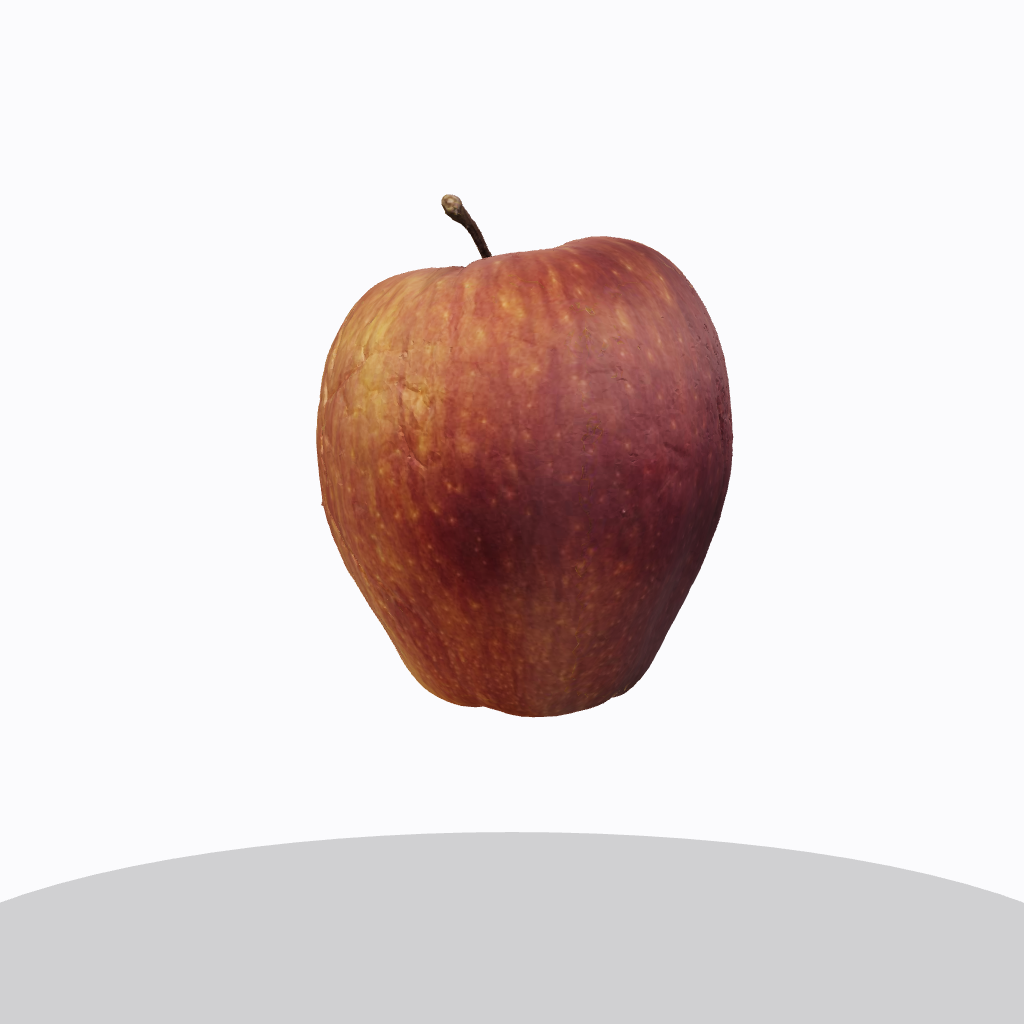
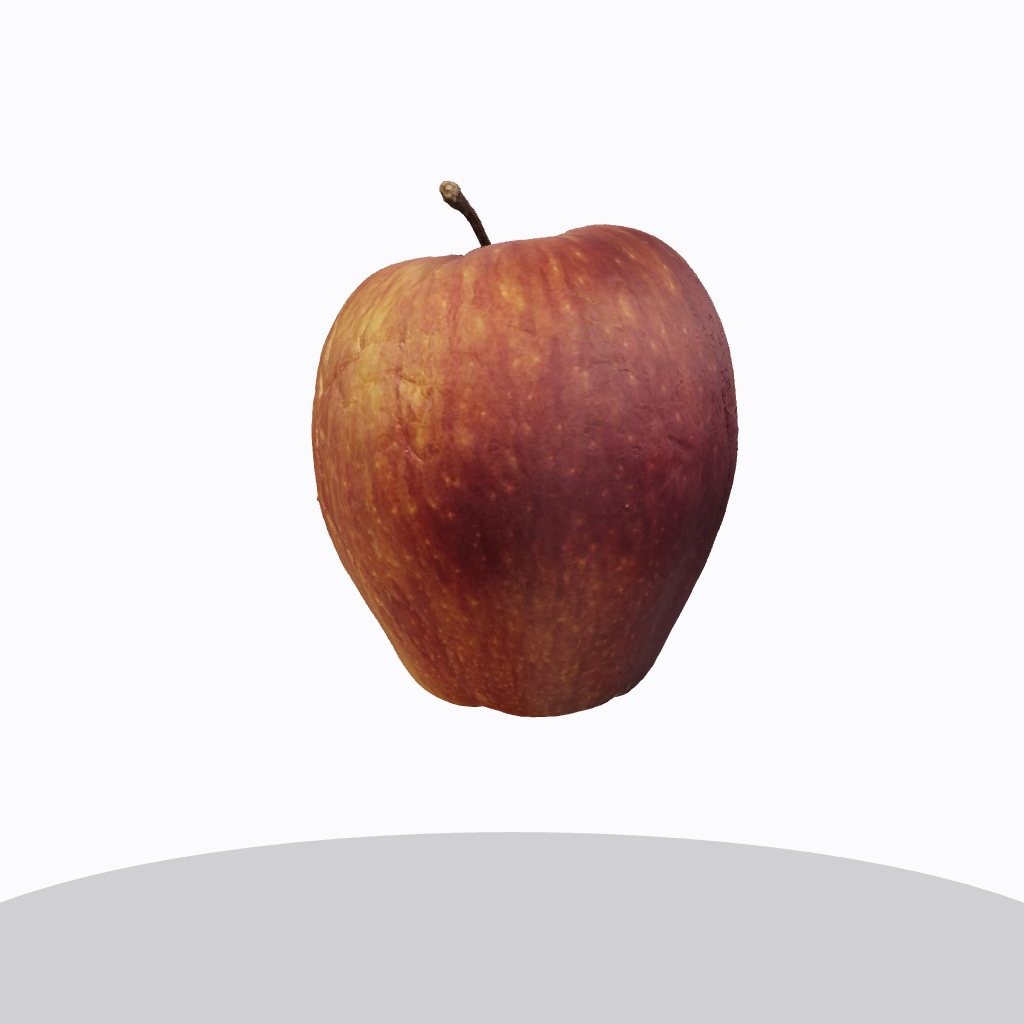
Fix stop-motion size jumps with baked silhouette-height scales.
Max-AABB normalize shrank mid-bite frames ~12–17% because the cavity
inflated width. Bake per-frame uniform scales so projected height matches
frame 0, keep all GLBs mounted under one pose, and re-export stills.

diff --git a/src/components/AppleScene.tsx b/src/components/AppleScene.tsx
@@ -24,14 +24,34 @@ type AppleSceneProps = {
 const FRAME_URL = (n: number) => `/apple/frames/${n}.glb`;
 
 /**
- * Sketchfab bite stages ship with different node scales/pivots. We normalize
- * each frame independently:
- *  1) uniform scale so the longest AABB side == TARGET_MAX_EXTENT
- *  2) XZ-center + shared floor (min Y → -TARGET_MAX_EXTENT/2)
- * Reusing frame-0's fit factor alone left later stages ~20–40% wrong in world space.
- * AABB-sphere fit kept radius equal but let tall cores (8–9) read much larger.
+ * Shared floor after normalize (min Y → FLOOR_Y). Kept as a constant so
+ * ContactShadows stay put while per-frame scales change.
  */
-const TARGET_MAX_EXTENT = 1.16;
+const FLOOR_Y = -0.58;
+
+/**
+ * Eydeet / Sketchfab bite stages ship at wildly different node scales, and the
+ * bite cavity inflates AABB width on mid frames. Fitting to max AABB side made
+ * frames 2/4/5 read ~12–17% smaller in camera space. Fitting to Y alone still
+ * left ~8% projected-height jitter (stem/core outliers + yaw).
+ *
+ * These uniform scales were baked so camera-projected silhouette height
+ * (fov 33, z=3.9, face yaw/pitch below) matches frame 0, then refined against
+ * exported still rasters so frame tops stay within ~1–2px. Re-bake with
+ * scripts/bake-apple-fit-scales.mjs (+ still pass) if the GLBs change.
+ */
+const FRAME_FIT_SCALE = [
+  0.05257256, // 0 whole
+  0.052427, // 1
+  0.04184265, // 2
+  0.04786538, // 3
+  0.03577814, // 4
+  0.04005153, // 5
+  0.04314632, // 6
+  0.05736219, // 7
+  0.03433506, // 8
+  0.03253477, // 9 core
+] as const;
 
 /**
  * Eydeet frames ship with the bite cavity facing away from the default camera.
@@ -90,14 +110,15 @@ function measureWorldBox(root: THREE.Object3D): THREE.Box3 {
 }
 
 /**
- * Uniform scale + stable pose: longest AABB side → TARGET_MAX_EXTENT,
- * XZ centered, bottom on a shared floor so shadows don't bounce.
+ * Uniform scale (baked silhouette height) + XZ center + shared floor.
+ * Pass the stop-motion frame index so the correct FRAME_FIT_SCALE is used.
  */
-function normalizeAppleRoot(source: THREE.Object3D): THREE.Group {
-  const box0 = measureWorldBox(source);
-  const size = box0.getSize(new THREE.Vector3());
-  const maxExtent = Math.max(size.x, size.y, size.z, 1e-6);
-  const fitScale = TARGET_MAX_EXTENT / maxExtent;
+function normalizeAppleRoot(source: THREE.Object3D, frame: number): THREE.Group {
+  const idx = Math.min(
+    FRAME_FIT_SCALE.length - 1,
+    Math.max(0, Math.floor(frame)),
+  );
+  const fitScale = FRAME_FIT_SCALE[idx]!;
 
   const wrap = new THREE.Group();
   const scaled = new THREE.Group();
@@ -109,11 +130,7 @@ function normalizeAppleRoot(source: THREE.Object3D): THREE.Group {
   const box = measureWorldBox(wrap);
   const cx = (box.min.x + box.max.x) * 0.5;
   const cz = (box.min.z + box.max.z) * 0.5;
-  wrap.position.set(
-    -cx,
-    -TARGET_MAX_EXTENT * 0.5 - box.min.y,
-    -cz,
-  );
+  wrap.position.set(-cx, FLOOR_Y - box.min.y, -cz);
   return wrap;
 }
 
@@ -473,7 +490,34 @@ function applyRotTint(
   });
 }
 
-function GltfFrame({
+function GltfAppleFrame({
+  frame,
+  visible,
+  rot,
+  quietPreview,
+}: {
+  frame: number;
+  visible: boolean;
+  rot: boolean;
+  quietPreview?: boolean;
+}) {
+  const path = FRAME_URL(frame);
+  const { scene } = useGLTF(path, true, true);
+  const normalized = useMemo(() => {
+    // Fresh clone so Strict Mode / remounts never reparent a live scene graph.
+    return normalizeAppleRoot(scene.clone(true), frame);
+  }, [scene, frame]);
+
+  useEffect(() => {
+    applyRotTint(normalized, rot, quietPreview);
+  }, [normalized, rot, quietPreview]);
+
+  // Keep every stage mounted under the same parent pose; only visibility flips.
+  // Remounting a new GLB each tick was a second source of perceived size pops.
+  return <primitive object={normalized} visible={visible} />;
+}
+
+function GltfApple({
   frame,
   rot,
   quietPreview,
@@ -482,21 +526,20 @@ function GltfFrame({
   rot: boolean;
   quietPreview?: boolean;
 }) {
-  const path = FRAME_URL(frame);
-  const { scene } = useGLTF(path, true, true);
-  const cloned = useMemo(() => scene.clone(true), [scene]);
-  const normalized = useMemo(() => normalizeAppleRoot(cloned), [cloned]);
-
-  useEffect(() => {
-    applyRotTint(cloned, rot, quietPreview);
-  }, [cloned, rot, quietPreview]);
-
   return (
     <group
       position={[0, 0.22, 0]}
       rotation={[APPLE_FACE_PITCH, APPLE_FACE_YAW, 0]}
     >
-      <primitive object={normalized} />
+      {Array.from({ length: FRAME_COUNT }, (_, i) => (
+        <GltfAppleFrame
+          key={i}
+          frame={i}
+          visible={i === frame}
+          rot={rot}
+          quietPreview={quietPreview}
+        />
+      ))}
     </group>
   );
 }
@@ -582,7 +625,7 @@ function SceneContent({
       <Suspense fallback={null}>
         <Environment preset="studio" environmentIntensity={0.4} />
         {useGltf ? (
-          <GltfFrame
+          <GltfApple
             frame={frame}
             rot={rot}
             quietPreview={quietPreview}
